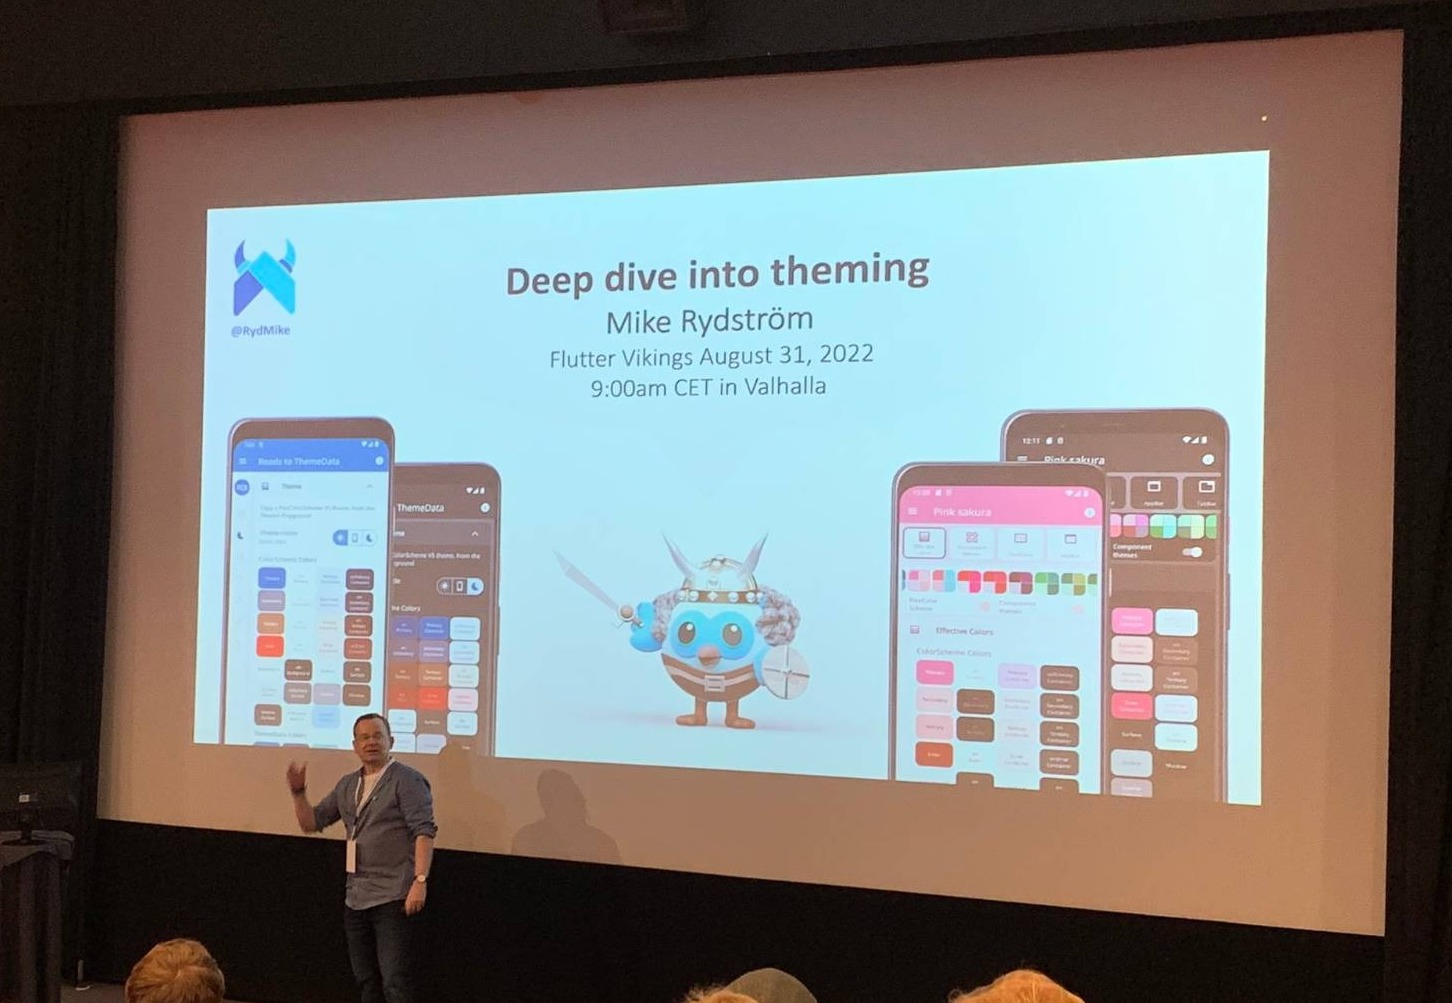
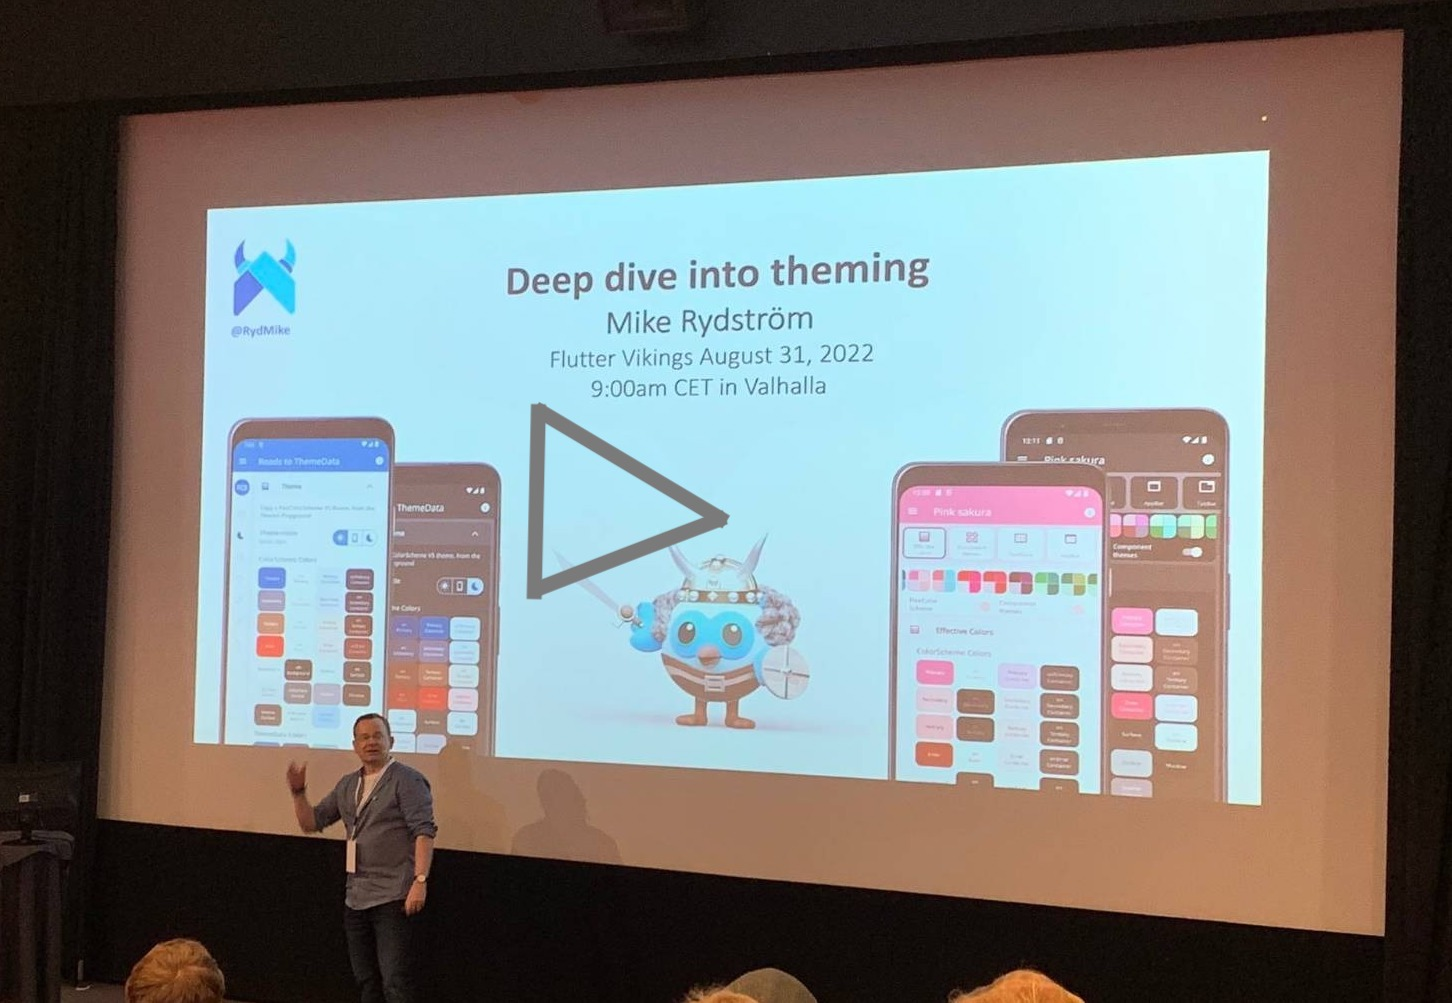
talk blog updates

Changed region(s): [[0.3409, 0.4018, 0.4959, 0.6181]]

diff --git a/blog_vikings_2022_talk.md b/blog_vikings_2022_talk.md
@@ -41,19 +41,19 @@ No wait, I got it, deep dive into theming Flutter apps, here we go! In the talk 
 
 The talk was streamed live and is available as a stream recording on YouTube. Unfortunately the opening issues of the Flutter Vikings conference meant we had very poor streamed video quality during the opening and the morning talks in Valhalla room. The quality of the stream was very poor, so the YouTube recording of the stream is very fuzzy. There is also no inset of the speaker on the slide deck, or even occasionally showing the speaker. Just voice and fuzzy slides from the stream. Regardless of all these minor issues, you can find my talk here.
 
-[<img src="https://rydmike.com/assets/vikings_video_thumb.jpeg?raw=true" alt="talk" width="600"/>](https://youtu.be/gn1F7GClECY?t=585)
+[<img src="https://rydmike.com/assets/vikings_video_thumb.jpeg?raw=true" alt="talk" width="600"/>](https://youtu.be/gn1F7GClECY?t=624)
 
 The talk was recorded locally too, including speaker video, slides and audio separately. I have been informed that all the talks from the conference will be edited and released as high quality videos on YouTube later. When my talk becomes available, I will update the link above to it instead.
 
-## Presentation Deck
+## Presentation Slide Deck
 
-I made my presentation slide deck available here.
+I made my presentation slide deck available here:
 
 [<img src="https://rydmike.com/assets/Vikings_talk_slides.png?raw=true" alt="Talk slides" width="600"/>](https://docs.google.com/presentation/d/1F7LXlMkD4Z5Eqkvw8uwMQBgBX52IiLqe3yODuakmLQo/edit#slide=id.p1)
 
-I could not keep the 4k videos used in original PowerPoint that I used during the talk. Google Slides refused to convert my 730 MB PowerPoint with 4k videos embedded in it to Google Slides, more suitable for sharing them on the web. So those videos had to be removed. I did replace a few shorter ones with GIFs that Google Slides could handle.
+I could not keep the 4k videos used in original PowerPoint that I used during the talk. Google Slides refused to convert my 730 MB PowerPoint with 4k videos embedded in it, to Google Slides, more suitable for sharing on the web. So those videos had to be removed. I did replace a few shorter ones with GIFs that Google Slides could handle.
 
-I also included a number of extra slides that were not in the talk. They explain certain points in more detail instead of showing them with demos, or needing the talk to get the points across. The slides that were not in
+I also included a number of extra slides that were not in the talk. They explain certain points in detail, instead of showing them with demos, or needing the talk to get the points across. The slides that were not in
 the original talk are clearly marked so.
 
 ### Demo App Used in the Talk
